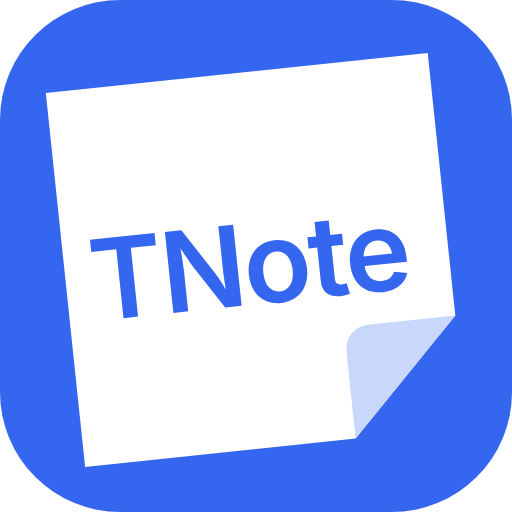
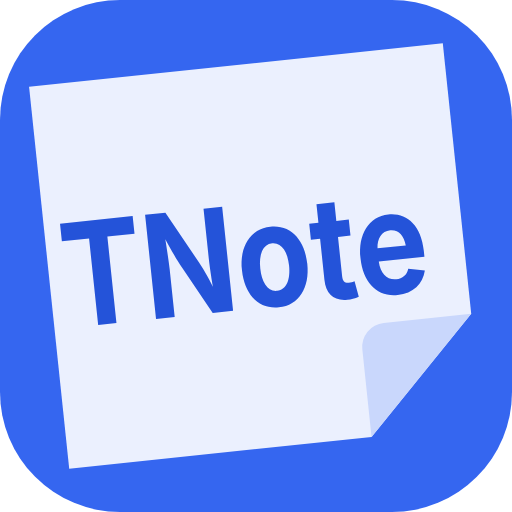
2.0.2: post-it más translúcido y TNote más grande, legible en tamaño chico
Claude-Session: https://claude.ai/code/session_011xPCzthV4tK4NiaxbXL3AA

Changed region(s): [[0.0312, 0.0625, 0.9375, 0.9375]]

diff --git a/app.js b/app.js
@@ -1,6 +1,6 @@
 'use strict';
 (() => {
-  const APP_VERSION = '2.0.1';
+  const APP_VERSION = '2.0.2';
   const KDF_ITER = 600000;
   const MIN_PASS = 8;
   const CFG = window.NOTAS_CONFIG || {};
@@ -28,7 +28,7 @@
     undo: '<svg viewBox="0 0 24 24" fill="none" stroke="currentColor" stroke-width="1.8" stroke-linecap="round" stroke-linejoin="round"><path d="M9 7L4.5 11.5 9 16"/><path d="M5 11.5h9.5a5 5 0 0 1 0 10H11"/></svg>',
     redo: '<svg viewBox="0 0 24 24" fill="none" stroke="currentColor" stroke-width="1.8" stroke-linecap="round" stroke-linejoin="round"><path d="M15 7l4.5 4.5L15 16"/><path d="M19 11.5H9.5a5 5 0 0 0 0 10H13"/></svg>',
     outline: '<svg viewBox="0 0 24 24" fill="none" stroke="currentColor" stroke-width="1.8" stroke-linecap="round"><path d="M4 6h16M8 11h12M8 16h12M4 11h.01M4 16h.01"/></svg>',
-    app: '<svg viewBox="0 0 64 64"><rect class="am-bg" width="64" height="64" rx="15"/><g transform="rotate(-6 32 32)"><path class="am-pg" d="M8 9h48v33L42 56H8z"/><path class="am-fd" d="M56 42H45a3 3 0 0 0-3 3v11z"/><text class="am-tx" x="31" y="38" text-anchor="middle">TNote</text></g></svg>',
+    app: '<svg viewBox="0 0 64 64"><rect class="am-bg" width="64" height="64" rx="15"/><g transform="rotate(-6 32 32)"><path class="am-pg" d="M6 8h52v34L44 56H6z"/><path class="am-fd" d="M58 42H47a3 3 0 0 0-3 3v11z"/><text class="am-tx" x="30.5" y="38.5" text-anchor="middle" textLength="46" lengthAdjust="spacingAndGlyphs">TNote</text></g></svg>',
     cloud: '<svg class="i-cloud" viewBox="0 0 24 24" fill="none" stroke="currentColor" stroke-width="1.8" stroke-linejoin="round"><path d="M7.2 18.5h9.9a3.9 3.9 0 0 0 .5-7.77A5.6 5.6 0 0 0 6.9 9.8a4.35 4.35 0 0 0 .3 8.7z"/></svg>',
     spin: '<svg class="i-spin" viewBox="0 0 24 24" fill="none" stroke="currentColor" stroke-width="1.8" stroke-linecap="round" stroke-linejoin="round"><path d="M19.5 12a7.5 7.5 0 0 1-13.1 5"/><path d="M4.5 12a7.5 7.5 0 0 1 13.1-5"/><path d="M17.8 3.6v3.6h-3.6M6.2 20.4v-3.6h3.6"/></svg>',
     search: '<svg viewBox="0 0 24 24" fill="none" stroke="currentColor" stroke-width="1.9" stroke-linecap="round"><circle cx="10.5" cy="10.5" r="6"/><path d="M15 15l5 5"/></svg>',

diff --git a/app.css b/app.css
@@ -384,9 +384,9 @@ body.center-on .ed-body { padding-bottom: calc(45vh + env(safe-area-inset-bottom
 .app-mark { width: 30px; height: 30px; flex: none; display: block; }
 .app-mark svg { width: 100%; height: 100%; display: block; }
 .am-bg { fill: var(--accent); }
-.am-pg { fill: #ffffff; }
+.am-pg { fill: #ffffff; fill-opacity: .9; }
 .am-fd { fill: #c9d7fc; }
-.am-tx { fill: #3566f0; font: 600 14px/1 Inter, Roboto, system-ui, sans-serif; letter-spacing: -0.3px; }
+.am-tx { fill: #2453d9; font: 700 18px/1 Roboto, Inter, system-ui, sans-serif; }
 .search-btn, .sync-btn { position: relative; }
 .search-btn .dot { position: absolute; top: 8px; right: 8px; width: 8px; height: 8px; border-radius: 50%; background: var(--accent); box-shadow: 0 0 0 2px var(--bg); display: none; }
 .search-btn.has-filter .dot { display: block; }

diff --git a/sw.js b/sw.js
@@ -1,4 +1,4 @@
-const CACHE = 'notas-app-v2.0.1';
+const CACHE = 'notas-app-v2.0.2';
 // Las tipografías van en un caché aparte que no se borra al actualizar: se bajan una vez, cuando se eligen.
 const FONTS = 'notas-app-fonts-v1';
 const ASSETS = ['./', './index.html', './app.css', './app.js', './config.js', './vendor/editor.js', './vendor/mammoth.browser.min.js', './manifest.webmanifest', './icons/icon-192.png', './icons/icon-512.png'];
